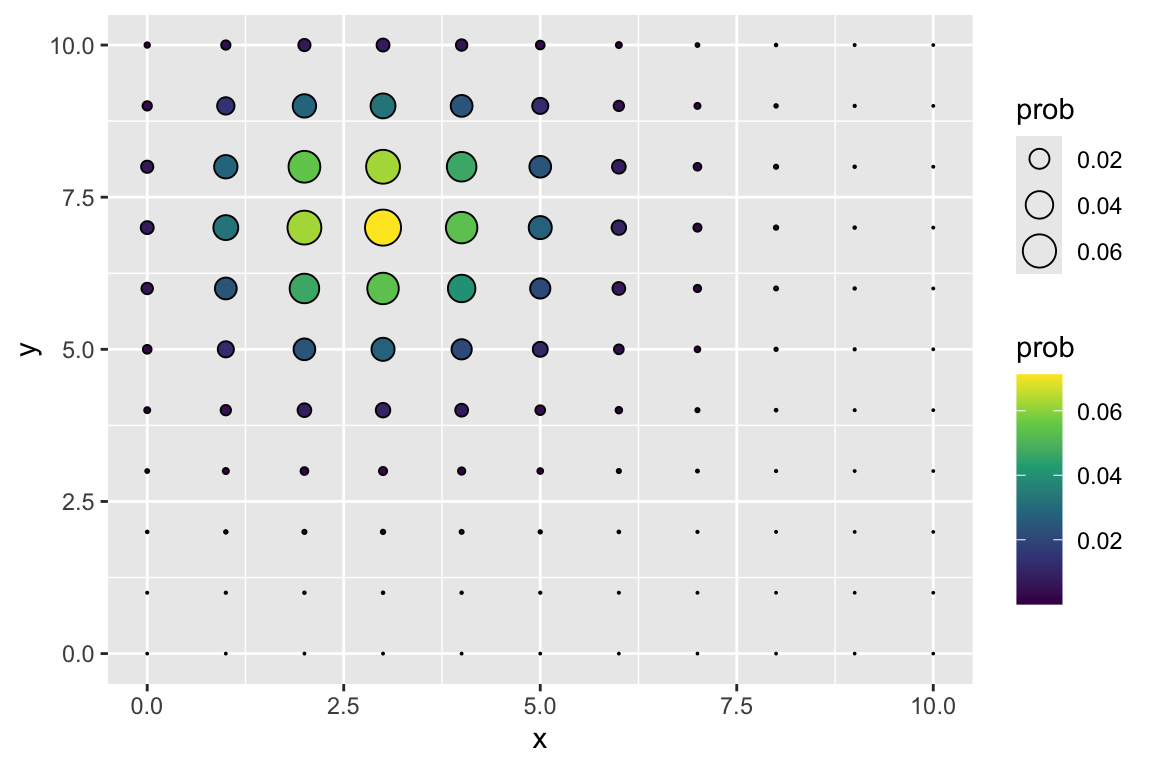
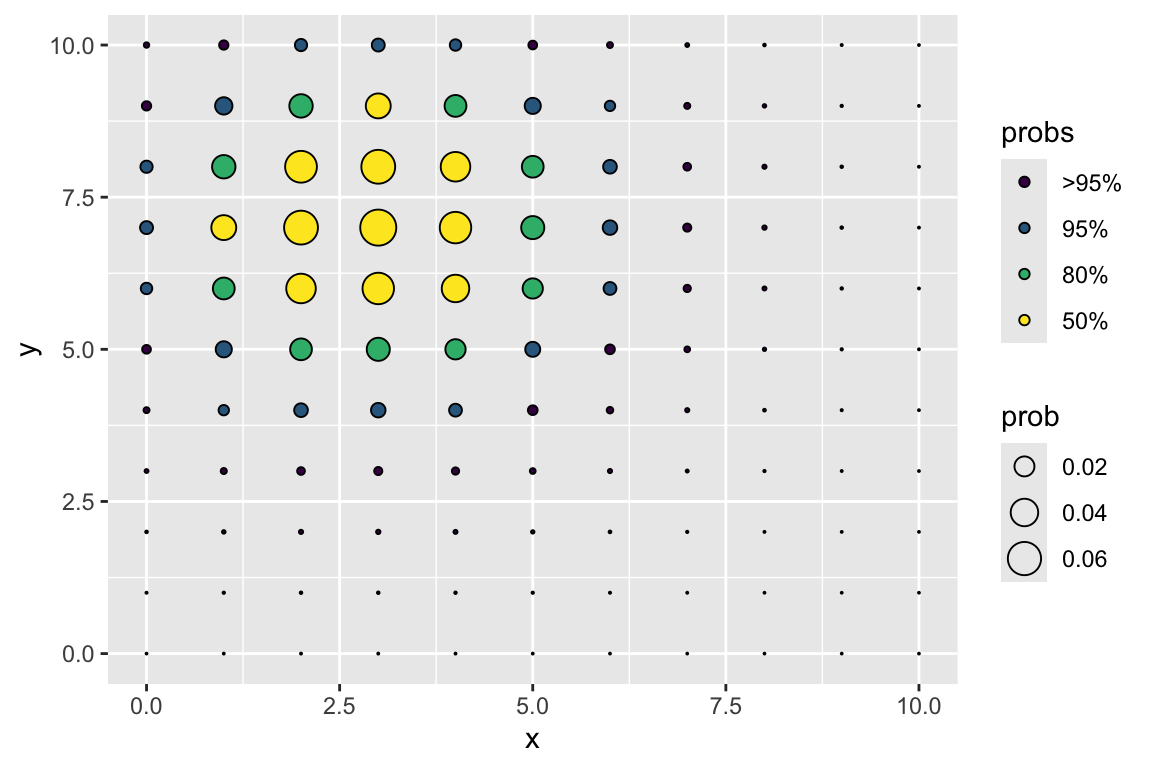
Map HDR levels to viridis fill in README example
Rework the viridis example to style the highest density regions
rather than the mass: keep probability encoded by point size via
scale_size_area(), map after_stat(probs) to fill through a fillable
point shape with a discrete viridis palette, and fix alpha = 1 to
replace the default alpha encoding. Move the example after the HDR
block it builds on.

diff --git a/README.md b/README.md
@@ -482,22 +482,6 @@ ggplot() +
 
 <img src="man/figures/readme-pmf-2d-tile-1.png" alt="" width="60%" />
 
-**Viridis fill.** Mapping the mass to `fill` as well, with a fillable
-point shape, pairs the size encoding with a perceptually uniform viridis
-palette for higher contrast.
-
-``` r
-ggplot() +
-  geom_pmf_2d(
-    fun = dbinom2, xlim = c(0, 10), ylim = c(0, 10), args = list(probs = c(0.3, 0.7)),
-    mapping = aes(fill = after_stat(prob)), shape = 21, color = "black"
-  ) +
-  scale_size_area() +
-  scale_fill_viridis_c()
-```
-
-<img src="man/figures/readme-pmf-2d-viridis-1.png" alt="" width="60%" />
-
 **Highest density regions.** `shade_hdr` accepts one or more coverage
 levels. Each lattice point is assigned the smallest HDR that contains
 it, and the assignment is mapped to `alpha` as an ordered factor—the
@@ -514,6 +498,24 @@ ggplot() +
 ```
 
 <img src="man/figures/readme-pmf-2d-hdr-1.png" alt="" width="60%" />
+
+**Viridis HDR fill.** If the alpha encoding is too subtle, map the HDR
+levels to `fill` instead with a fillable point shape and a discrete
+viridis palette, fixing `alpha = 1` to turn off the default encoding.
+Probability mass stays encoded by point size.
+
+``` r
+ggplot() +
+  geom_pmf_2d(
+    fun = dbinom2, xlim = c(0, 10), ylim = c(0, 10), args = list(probs = c(0.3, 0.7)),
+    shade_hdr = c(0.5, 0.8, 0.95),
+    mapping = aes(fill = after_stat(probs)), shape = 21, color = "black", alpha = 1
+  ) +
+  scale_size_area() +
+  scale_fill_viridis_d()
+```
+
+<img src="man/figures/readme-pmf-2d-viridis-1.png" alt="" width="60%" />
 
 **Non-product support.** Distributions like the trinomial live on a
 simplex rather than a full product lattice. Evaluate over a bounding
